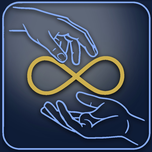
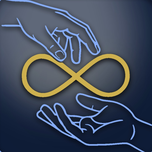
auto-commit for 6c17c29b-4d80-4325-b16b-c855798e3b90

diff --git a/scripts/generate_app_icons.py b/scripts/generate_app_icons.py
@@ -50,10 +50,17 @@ def hex_to_rgb(hex_str: str) -> tuple[int, int, int]:
     return tuple(int(s[i:i + 2], 16) for i in (0, 2, 4))  # type: ignore[return-value]
 
 
-def load_square(src_path: Path) -> Image.Image:
-    """Load the source and ensure it's a perfect square (center-crop if not).
-    Keeps the image RGB — we want every color (gradient, frame, hands)
-    preserved as-is through to the final icons.
+def load_square(src_path: Path, zoom_crop_pct: float = 5.0) -> Image.Image:
+    """Load the source and ensure it's a perfect square (center-crop if not),
+    then zoom in slightly to hide the outer rounded-rectangle frame line.
+
+    The new Apr 24 2026 master ships with a thin light-blue rounded-rect
+    frame about 2% from each edge; iOS / Android then add their own
+    rounded-corner mask on top, which visually stacks a second frame
+    just inside the OS mask and looks like a double border. We crop
+    `zoom_crop_pct` percent off each side (default 5% → 10% total
+    reduction per dimension, ≈ 90% of the original area) to push that
+    frame off-screen cleanly.
     """
     src = Image.open(src_path).convert('RGB')
     w, h = src.size
@@ -62,6 +69,11 @@ def load_square(src_path: Path) -> Image.Image:
         left = (w - short) // 2
         top = (h - short) // 2
         src = src.crop((left, top, left + short, top + short))
+        w = h = short
+    if zoom_crop_pct and zoom_crop_pct > 0:
+        inset = int(round(w * zoom_crop_pct / 100.0))
+        if inset > 0 and (w - 2 * inset) > 16:
+            src = src.crop((inset, inset, w - inset, h - inset))
     return src
 
 
@@ -113,7 +125,7 @@ def build_mono_badge(src: Image.Image, size: int,
     return canvas
 
 
-def generate(src_path: Path, navy: tuple[int, int, int]) -> None:
+def generate(src_path: Path, navy: tuple[int, int, int], zoom_crop_pct: float) -> None:
     if not src_path.exists():
         sys.stderr.write(f'Source not found: {src_path}\n')
         sys.exit(1)
@@ -121,7 +133,7 @@ def generate(src_path: Path, navy: tuple[int, int, int]) -> None:
         sys.stderr.write(f'Public dir not found: {PUBLIC_DIR}\n')
         sys.exit(1)
 
-    src = load_square(src_path)
+    src = load_square(src_path, zoom_crop_pct=zoom_crop_pct)
 
     any_outputs = [
         (192, 'carryon-app-icon-square-192.png'),
@@ -185,8 +197,12 @@ def main() -> None:
         '--navy', default='#0B1221',
         help='Background hex for maskable padding — must match CSS --bg (default: #0B1221)',
     )
+    ap.add_argument(
+        '--zoom', type=float, default=5.0,
+        help='Percent to crop off each edge to hide the outer frame line (default: 5.0)',
+    )
     args = ap.parse_args()
-    generate(args.source, hex_to_rgb(args.navy))
+    generate(args.source, hex_to_rgb(args.navy), args.zoom)
 
 
 if __name__ == '__main__':
